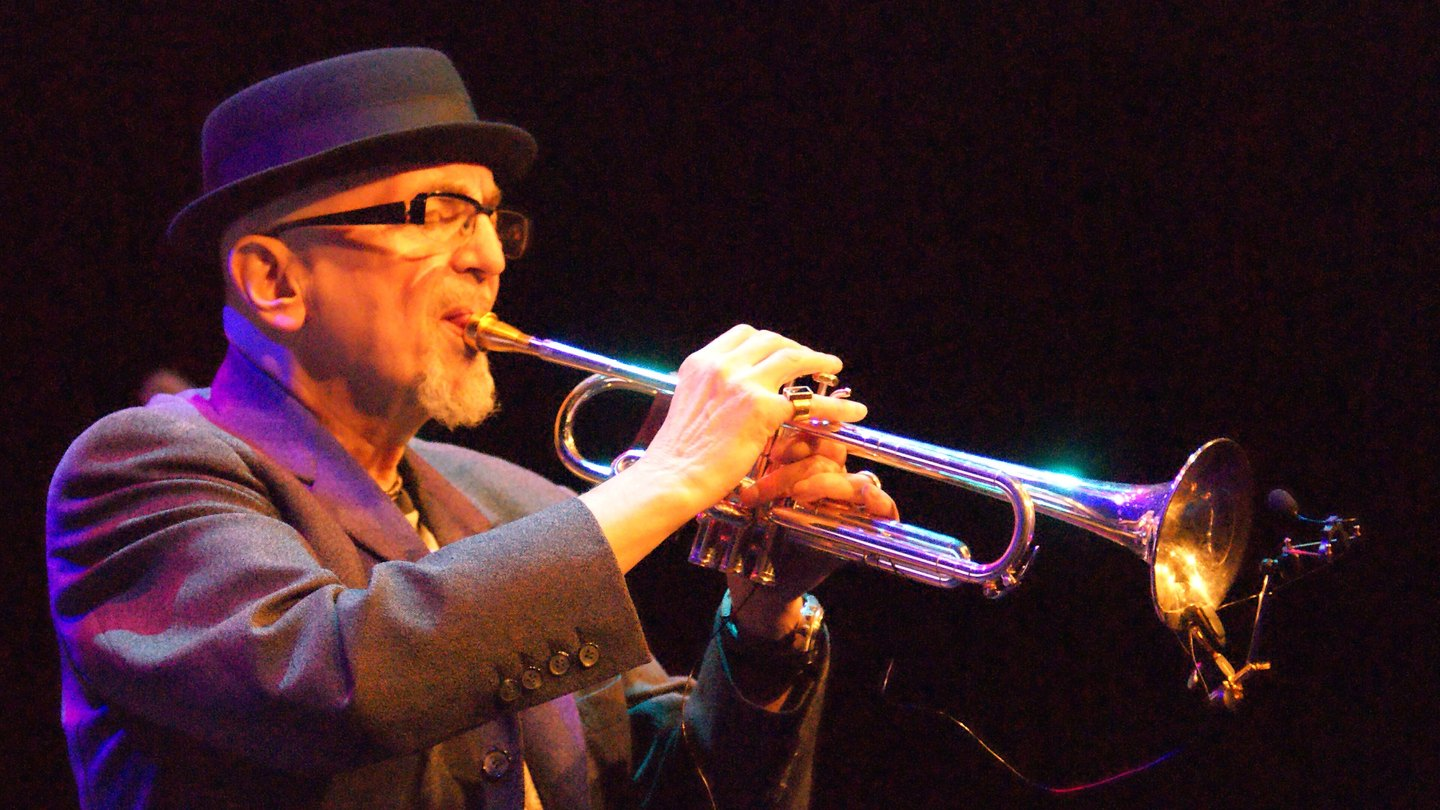
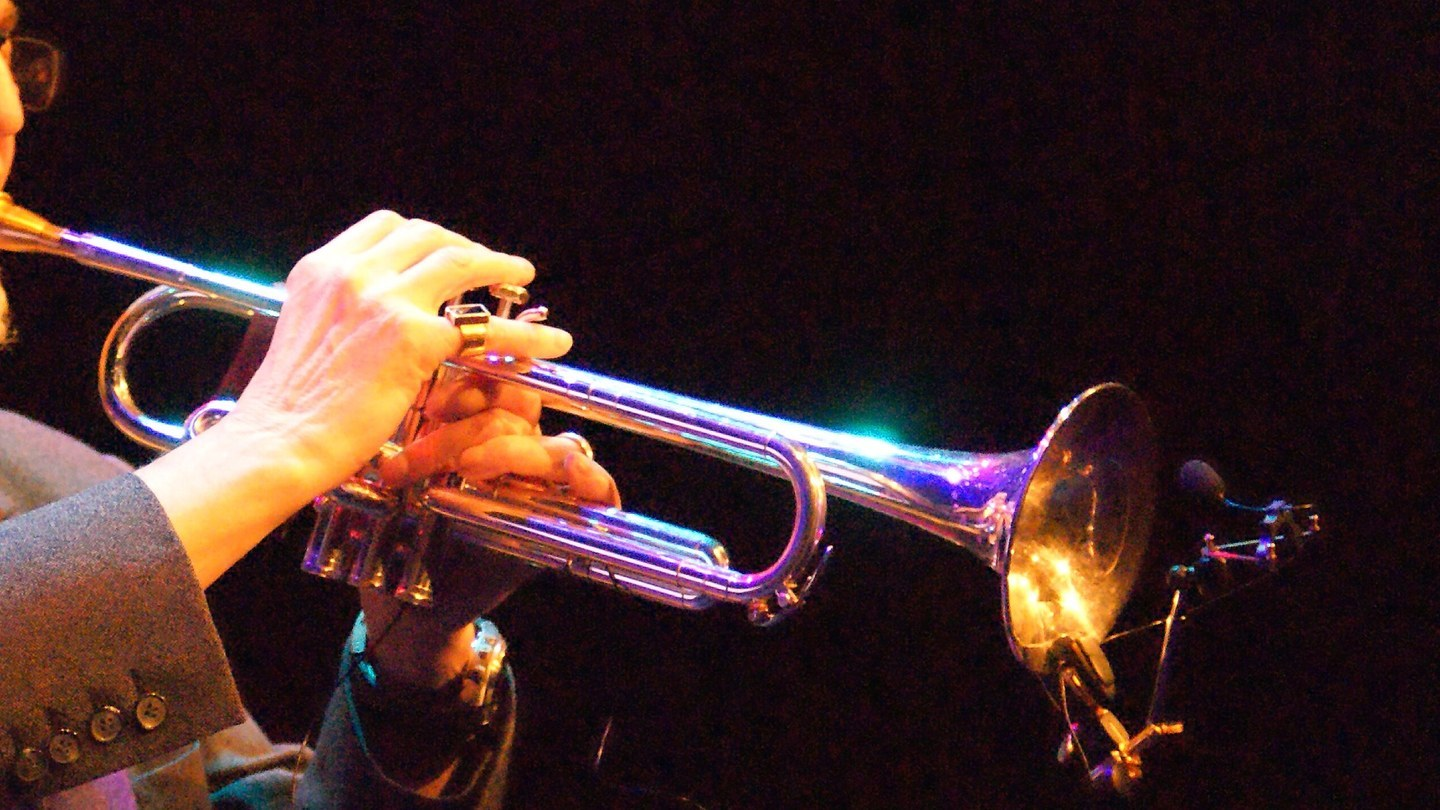
Slideshow: jazz without a portal screenshot, three new animation stills, calmer openings
Polski Jazz drops the portal screenshot and the single portrait. It opens on
a collage of nine Polish jazz musicians -- Wegehaupt, Muniak, Ptaszyn
Wroblewski, Mozdzer, Dudziak, Bem, Karolak, Stanko, Majewski -- from
Wikimedia Commons under public domain and CC BY. Then the wall of sleeves,
then two instrument details cropped so no one face carries the frame: a
trumpet in stage light and a saxophone in blue.

Historia Animacji takes the three frames you picked: Nezha Conquers the
Dragon King, Paprika, and Chitruk's "Film, film, film". Baginski's Katedra
stays. The Cheret poster is out of the opening and out of the set; the
phenakistiscope disc from about 1840 leads instead, which is where animation
actually starts.

Mondrian no longer opens on the near-solid red canvas; the 3D room goes
first. Sectio Aurea opens on the Filary colonnade render.

diff --git a/index.html b/index.html
@@ -286,15 +286,15 @@ const ASSET="stream/assets/";
 const GALLERY={
  matryca:["matryca-cover-1","matryca","matryca-cover-4","matryca-2","matryca-cover-2","matryca-cover-3"],
  awangarda:["awangarda-3","awangarda-1","awangarda-2","awangarda-6","awangarda-5"],
- historia:["historia-2","historia-4","historia-1","historia-6","historia-3","historia-5"],
+ historia:["historia-4","historia-7","historia-8","historia-6","historia-9","historia-1","historia-5"],
  dobranocki:["dobranocki-1","dobranocki-5","dobranocki-3","dobranocki-4","dobranocki-6"],
  cardiosim:["cardiosim-3","cardiosim-2","cardiosim-1","cardiosim"],
  oilgas:["oilgas","oilgas-1","oilgas-2"],
  mnemo:["mnemo-1","mnemo-2","mnemo-3"],
  hinton:["hinton-3","hinton-1","hinton-4","hinton-5"],
  sheldrake:["sheldrake-4","sheldrake-5","sheldrake-6","sheldrake-3"],
- mondrian:["mondrian-1","mondrian-3","mondrian-2"],
- sectio:["sectio-1","sectio-4","sectio-2","sectio-5","sectio-3","sectio-6"],
+ mondrian:["mondrian-3","mondrian-2","mondrian-1"],
+ sectio:["sectio-0","sectio-4","sectio-1","sectio-5","sectio-2","sectio-6","sectio-3"],
  schizogra:["schizogra-1","schizogra-2"],
  nbody:["nbody-1","nbody-3","nbody-2"],
  sejm:["sejm-1"],
@@ -304,7 +304,7 @@ const GALLERY={
  swidzinski:["swidzinski-1"],
  przyluski:["przyluski-1","przyluski-2","przyluski-4","przyluski-3"],
  klimat:["klimat-2","klimat-1","klimat-3"], psychedelic:["psychedelic-1"], pokedex:["pokedex-1"],
- polskijazz:["polskijazz-2","polskijazz-1","polskijazz-3"],
+ polskijazz:["polskijazz-1","polskijazz-3","polskijazz-2","polskijazz-4"],
  futureform:["futureform-1"], futuretalk:["futuretalk-1"], chamczyk:["chamczyk-1"], zem:["zem-1"], emfazy:["emfazy-1"]
 };
 
@@ -312,7 +312,7 @@ const GALLERY={
 const CREDIT={
  matryca:{pl:"okładki: propozycje v3 (FutureShow) · zrzuty portalu",en:"covers: v3 proposals (FutureShow) · portal screenshots"},
  awangarda:{pl:"kadry: Buñuel, Deren, Wiertow, Léger, Anger (YouTube)",en:"stills: Buñuel, Deren, Vertov, Léger, Anger (YouTube)"},
- historia:{pl:"plakat Jules’a Chéreta do Théâtre Optique Reynauda (1892) · tarcza fenakistiskopu ok. 1840 (domena publiczna) · kadry: McCay, McLaren, Giersz, Bagiński",en:"Jules Chéret’s poster for Reynaud’s Théâtre Optique (1892) · phenakistiscope disc, c. 1840 (public domain) · stills: McCay, McLaren, Giersz, Bagiński"},
+ historia:{pl:"tarcza fenakistiskopu ok. 1840 (domena publiczna) · kadry: Wang Shuchen, Satoshi Kon, Bagiński, Chitruk, McCay, Giersz",en:"phenakistiscope disc, c. 1840 (public domain) · stills: Wang Shuchen, Satoshi Kon, Bagiński, Chitruk, McCay, Giersz"},
  dobranocki:{pl:"kadry: Bolek i Lolek, Miś Uszatek, Krecik, Wilk i Zając",en:"stills: Bolek i Lolek, Uszatek, Krtek, Nu pogodi"},
  cardiosim:{pl:"ryciny: Bourgery, Gray's Anatomy (domena publiczna)",en:"plates: Bourgery, Gray's Anatomy (public domain)"},
  hinton:{pl:"grafiki: Jan Lubicz Przyłuski / FutureShow · zrzut portalu",en:"artwork: Jan Lubicz Przyłuski / FutureShow · portal screenshot"},
@@ -320,7 +320,7 @@ const CREDIT={
  mnemo:{pl:"ryciny: Ars magna Llulla · Ars memoriae Fludda, 1617 (domena publiczna)",en:"plates: Llull's Ars magna · Fludd's Ars memoriae, 1617 (public domain)"},
  mondrian:{pl:"obrazy: Piet Mondrian (domena publiczna)",en:"paintings: Piet Mondrian (public domain)"},
  sheldrake:{pl:"tablice: Ernst Haeckel, „Kunstformen der Natur”, 1904 (domena publiczna) · zrzut portalu",en:"plates: Ernst Haeckel, “Kunstformen der Natur”, 1904 (public domain) · portal screenshot"},
- polskijazz:{pl:"fot. Tomasza Stańki: Dirk Neven (domena publiczna) · kolaż okładek z katalogu portalu",en:"Tomasz Stańko photo: Dirk Neven (public domain) · collage of covers from the portal catalogue"},
+ polskijazz:{pl:"kolaż: 9 polskich muzyków jazzowych (Wikimedia Commons, domena publiczna i CC BY) · okładki z katalogu portalu · zbliżenia: Dirk Neven (dp.), Kuba Bożanowski (CC BY 2.0)",en:"collage: 9 Polish jazz musicians (Wikimedia Commons, public domain and CC BY) · covers from the portal catalogue · instrument details: Dirk Neven (PD), Kuba Bożanowski (CC BY 2.0)"},
  klimat:{pl:"mapy: NASA GISS/Scientific Visualization Studio, NASA Earth Observatory (domena publiczna)",en:"maps: NASA GISS/Scientific Visualization Studio, NASA Earth Observatory (public domain)"},
  sectio:{pl:"zdjęcia: aloes spiralny, romanesco — domena publiczna · zrzuty portalu",en:"photos: spiral aloe, romanesco — public domain · portal screenshots"},
  ghykakomp:{pl:"zdjęcia: aloes spiralny, romanesco (domena publiczna) · zrzut kompendium",en:"photos: spiral aloe, romanesco (public domain) · compendium screenshot"},
